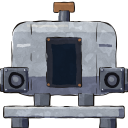
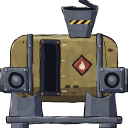
feat(fuel): the picked fuel tank and biofuel's rust orange
The fuel tank is «Бочка на ложементе», a mustard barrel lying on two
saddles with a striped hopper on top and a window on its side; biofuel is
rust orange in every glass and on its pipe sockets. Both the user's picks.

diff --git a/tools/anime-art/subjects/machines.js b/tools/anime-art/subjects/machines.js
@@ -467,11 +467,13 @@ const tankEmpty = (a) => a.flat(band(21.2, 9, 23, 10.2), '#ff5040');
  * across, 11..21 down. The client shows as much of it from the bottom as the machine holds, its surface (levelTop) moved down
  * onto it: any level, not steps.
  */
-const level = (c) => (a) => { a.flat(band(13, 11, 19, 21), c.base); a.flat(band(13.6, 11, 14.5, 21), c.glint); };
-const levelTop = (c) => (a) => a.flat(band(13, 11, 19, 11.6), c.lite);
+/** The sight glass of a tank and a cistern, [x, y, w, h]: the fuel tank's is its own (FUEL_GLASS). */
+const SIGHT = [13, 11, 6, 10];
+const level = (c, [x, y, w, h] = SIGHT) => (a) => { a.flat(band(x, y, x + w, y + h), c.base); a.flat(band(x + w * .1, y, x + w * .25, y + h), c.glint); };
+const levelTop = (c, [x, y, w] = SIGHT) => (a) => a.flat(band(x, y, x + w, y + .6), c.lite);
 const OXYGEN = { base: '#2ca4d8', lite: '#a8ecff', glint: '#6cc8f0' };
-/** Biofuel's amber, a placeholder till its look is picked (fuel-liquid). */
-const FUELLED = { base: '#b8801e', lite: '#f2c66a', glint: '#d8a040' };
+/** Biofuel: «Ржавый оранжевый», the user's pick (fuel-liquid), red-orange as dyed diesel, apart from water, oxygen and fire. */
+const FUELLED = { base: '#b0501c', lite: '#f0965c', glint: '#d46a30' };
 // ---------- the radar antenna, 4 x 6 cells (radar-mast): a guyed lattice mast, a dish four cells across at its head, a red light on top ----------
 const WIRE = { base: '#8a92a2', shade: '#8a92a2' };
 const CONCRETE = { base: '#7a7a80', shade: '#55555e', deep: '#3e3e46', lite: '#9c9ca2', spec: '#c8c8cc', rim: '#9c9ca2' };
@@ -1021,6 +1023,57 @@ const galleyA_screen = (f) => (a) => {
 };
 
 
+// ---------- The fuel tank (fuel-liquid), «Бочка на ложементе», B of the fuel pick page: a squat barrel lying on two saddles and a
+// skid, faded mustard, hooped and riveted, a striped hopper on top with its flap stood open where cans are poured, a flammable placard,
+// its fuel up a narrow window on its side (fuelTank_level over FUEL_GLASS). Ports in at (0, 2), out at (3, 2).
+const MUSTARD = { base: '#9a8446', shade: '#6a5a34', deep: '#4a3e28', lite: '#bba864', spec: '#e0d092' };
+const FUEL_GLASS = [11, 11, 3, 12];
+/** Rust grown from a seam or rivet: a torn edge, darker at heart. */
+const rustPatch = (a, x, y, s) => {
+  a.flat(poly(x - s, y - .2 * s, x - .3 * s, y - .7 * s, x + .5 * s, y - .5 * s, x + s, y + .1 * s, x + .4 * s, y + .4 * s, x + .1 * s, y + .75 * s, x - .5 * s, y + .45 * s), '#70482f');
+  a.flat(poly(x - .4 * s, y - .1 * s, x + .1 * s, y - .3 * s, x + .45 * s, y + .05 * s, x, y + .3 * s), '#3f2a24');
+};
+/** A flammable placard: a dark-edged red diamond, a pale flame on it, its middle at (x, y). */
+const placard = (a, x, y, r) => {
+  const dia = (q) => poly(x, y - q, x + q, y, x, y + q, x - q, y), n = (v) => +v.toFixed(3), s = r * .5;
+  a.flat(dia(r), '#1a1820');
+  a.flat(dia(r * .8), '#a8402e');
+  a.flat(poly(x - r * .8, y, x, y - r * .8, x + r * .1, y - r * .7, x - r * .7, y + r * .1), '#c45a42');
+  a.flat(`M${n(x)} ${n(y + s * .8)}Q${n(x - s * .8)} ${n(y + s * .6)} ${n(x - s * .35)} ${n(y - s * .2)}Q${n(x - s * .1)} ${n(y + s * .15)} ${n(x)} ${n(y - s * .9)}Q${n(x + s * .7)} ${n(y)} ${n(x + s * .45)} ${n(y + s * .55)}Q${n(x + s * .3)} ${n(y + s * .8)} ${n(x)} ${n(y + s * .8)}Z`, '#e6d8b8');
+};
+/** Level marks beside a glass: short pale ticks from y0 to y1, n of them, the ends longer. */
+const glassTicks = (a, x, y0, y1, n) => { for (let i = 0; i < n; i++) { const y = y0 + (y1 - y0) * i / (n - 1), l = i === 0 || i === n - 1 ? 1.3 : .8; a.flat(band(x, y - .16, x + l, y + .16), '#cfc3a0'); } };
+const fuelTank = (a) => {
+  a.shape(rr(2.6, 8.8, 26.8, 16.6, 5), MUSTARD, {
+    lite: band(2.6, 8.8, 29.4, 10.3), spec: band(7, 9.3, 17, 9.8), shade: band(2.6, 21.8, 29.4, 25.4), deep: band(2.6, 24, 29.4, 25.4),
+    lines: ['M6.2 9.4Q4.6 17.1 6.2 24.8', 'M25.8 9.4Q27.4 17.1 25.8 24.8'] });
+  for (const x of [6.8, 24.2]) {
+    a.shape(rr(x, 8.5, 1.4, 17.2, .5), GUN, { lite: band(x, 8.5, x + .5, 25.7), shade: band(x + .9, 8.5, x + 1.4, 25.7) });
+    rivets(a, [x + .7, 11.6], [x + .7, 22.6]);
+  }
+  rustStreak(a, 7.3, 23.2, 2.2);
+  rustPatch(a, 18.4, 23.4, 1);
+  rustPatch(a, 27.6, 12.4, .8);
+  for (const x of [16.2, 18.2]) a.flat(rr(x, 21.2, 1.4, .7, .2), '#3e3420');
+  placard(a, 20.4, 16.2, 2.7);
+  // The hopper on top, its slot dark, a hazard strip on its front, the flap stood open behind it.
+  a.shape(poly(19.6, .3, 20.6, -.4, 24.4, 1.6, 23.4, 2.2), DARK, { outer: false, lite: band(19.6, -.4, 24.4, .2) });
+  a.shape(poly(15.4, 1.8, 24.6, 1.8, 22.4, 9.4, 17.6, 9.4), GUN, { lite: band(15.4, 1.8, 24.6, 2.5), shade: poly(23, 1.8, 24.6, 1.8, 22.4, 9.4, 21.4, 9.4) });
+  a.flat(ell(20, 2.1, 4.2, .42), '#12131e');
+  hazard(a, 17.4, 5, 5.2, 1.1);
+  // The sight glass in its frame, bolted, its marks beside it; its fuel is drawn over it (fuelTank_level), as the sim says.
+  a.shape(rr(10, 10, 5, 14, .5), DARK, { outer: false, lite: band(10.2, 10.1, 14.8, 10.6), shade: band(14.2, 10, 15, 24) });
+  a.flat(band(11, 11, 14, 23), '#10141c');
+  for (const [x, y] of [[10.5, 10.5], [14.5, 10.5], [10.5, 23.5], [14.5, 23.5]]) a.flat(ell(x, y, .3), COPPER.base);
+  glassTicks(a, 15.3, 11.2, 22.8, 4);
+  // The cradle: two saddles under the barrel on a skid.
+  for (const x0 of [3, 21.6]) a.shape(`M${x0} 22.6Q${x0 + 3.5} 26.4 ${x0 + 7} 22.6L${x0 + 7.6} 29.4L${x0 - .6} 29.4Z`, GUN, { lite: band(x0 - .6, 22, x0 + 1.2, 29.4), shade: band(x0 + 5.6, 22, x0 + 7.6, 29.4) });
+  box(a, 1.6, 29.2, 28.8, 1.6, GUN, { l: .4, b: .4 });
+  feet(a, 30.8, 1.2, [3, 4], [25, 4]);
+  fitting(a, 4, 20, 0);
+  fitting(a, 28, 20, 32);
+};
+
 Subjects.machines = function () {
   // A fire's liquid-oxygen input, its port at 0, 2 (industrial-oxygen).
   const blowable = (draw) => (a) => { draw(a); fitting(a, 4, 20, 0); };
@@ -1031,7 +1084,7 @@ Subjects.machines = function () {
     vent: [16, 16, vent], crate: [32, 16, crate], cistern: [32, 32, cistern], growCapsule: [32, 48, growCapsule], charger: [16, 32, charger], burnerGenerator: [32, 32, blowable(burnerGenerator)],
     autoTradeStation: [32, 32, terminal(true)], tradeStation: [32, 32, terminal(false)], lifepod: [48, 48, lifepod], generator: [32, 32, generator], tank: [32, 32, tank],
     computer: [48, 32, computer], capacitorBank: [32, 32, capacitorBank], engine: [72, 32, fuelled(engine, 68, 20, 72)], solarPanel: [48, 16, solarPanel], lamp: [16, 16, lamp], arcLamp: [16, 16, arcLampBody(false)], dropPod: [32, 56, fuelled(dropPod, 4, 36, 0)], electrolyser: [32, 48, electrolyser],
-    fermenter: [32, 32, fuelled(fermenter, 28, 20, 32)], galley: [32, 40, blowable(galleyA)], biofuelGenerator: [48, 32, fuelled(blowable(biofuelGenerator), 4, 12, 0)], treadWheel: [48, 48, treadWheel] };
+    fuelTank: [32, 32, fuelTank], fermenter: [32, 32, fuelled(fermenter, 28, 20, 32)], galley: [32, 40, blowable(galleyA)], biofuelGenerator: [48, 32, fuelled(blowable(biofuelGenerator), 4, 12, 0)], treadWheel: [48, 48, treadWheel] };
   for (const [kind, [w, h, draw]] of Object.entries(whole)) out(`machine_${kind}`, bake({ w, h, draw }));
   out('machine_arcLamp_lit', flat(16, 16, arcLampBody(true)));
   out('machine_radarAntenna', flat(32, 48, (a) => { radarMast(a); radarDish(2)(a); }));
@@ -1052,9 +1105,9 @@ Subjects.machines = function () {
   for (let f = 0; f < 2; f++) out(`computer_lights_${f}`, flat(48, 32, computerLights(f)));
   for (let f = 0; f < 3; f++) out(`fire_${f}`, flat(10, 11, fire(f)));
   out('tank_empty', flat(32, 32, tankEmpty));
-  for (const [kind, c] of [['tank', OXYGEN], ['cistern', WATERED], ['fuelTank', FUELLED]]) {
-    out(`${kind}_level`, flat(32, 32, level(c)));
-    out(`${kind}_level_top`, flat(32, 32, levelTop(c)));
+  for (const [kind, c, glass] of [['tank', OXYGEN, SIGHT], ['cistern', WATERED, SIGHT], ['fuelTank', FUELLED, FUEL_GLASS]]) {
+    out(`${kind}_level`, flat(32, 32, level(c, glass)));
+    out(`${kind}_level_top`, flat(32, 32, levelTop(c, glass)));
   }
   for (let f = 0; f < 4; f++) out(`electrolyser_work_${f}`, flat(32, 48, bubbles(f)));
   out('electrolyser_working', flat(32, 48, working));

diff --git a/tools/anime-art/subjects/shuttle.js b/tools/anime-art/subjects/shuttle.js
@@ -15,8 +15,8 @@ const FROST = { base: '#76868f', shade: '#56646e', deep: '#3c4852', lite: '#a2b2
 const RUST = ['#70482f', '#3f2a24'];
 const OFF = { green: '#2a4a36', red: '#5a2a28', white: '#5e5c52' };
 const PIPE = { base: '#7f8796', shade: '#555b70', deep: '#3a3e50', lite: '#a9b1be', spec: '#dfe7f2' };
-/** Biofuel's amber, a placeholder till its look is picked (fuel-liquid), as the fuel tank's. */
-const FUEL = { base: '#b8801e', lite: '#f2c66a', glint: '#d8a040' };
+/** Biofuel: «Ржавый оранжевый», the user's pick (fuel-liquid), as the fuel tank's. */
+const FUEL = { base: '#b0501c', lite: '#f0965c', glint: '#d46a30' };
 
 const band = (x0, y0, x1, y1) => poly(x0, y0, x1, y0, x1, y1, x0, y1);
 function box(a, x, y, w, h, m, o) {

diff --git a/game/features/pipes/logic/Sockets.cs b/game/features/pipes/logic/Sockets.cs
@@ -6,14 +6,14 @@ namespace Stillwake.Game.Features.Pipes;
 /// <summary>A port as the piping shows it (2026-10-29-typed-ports): a socket in its fluid's colour, an arrow into it (&gt; o) or out of it (o &gt;).</summary>
 public static class Sockets
 {
-    /// <summary>The colour of a fluid's sockets, as 0xRRGGBB: air the canister's blue, water the cistern's teal, liquid oxygen pale blue, fuel amber.</summary>
+    /// <summary>The colour of a fluid's sockets, as 0xRRGGBB: air the canister's blue, water the cistern's teal, liquid oxygen pale blue, fuel rust orange.</summary>
     public static uint ColourOf(string fluid) => fluid switch
     {
         Fluids.Air => 0x7fc4f0,
         Fluids.Water => 0x2fa3b8,
         Fluids.LiquidOxygen => 0xa8d8ff,
-        // Amber, a placeholder till the user picks it (fuel-liquid).
-        Fluids.Fuel => 0xd9a03a,
+        // Rust orange, the user's pick (fuel-liquid): the glint of the fuel in the glasses.
+        Fluids.Fuel => 0xd46a30,
         _ => throw new ArgumentException($"no socket colour for fluid {fluid}"),
     };
 

diff --git a/docs/plans/fuel-liquid.md b/docs/plans/fuel-liquid.md
@@ -21,6 +21,11 @@ in. Built in the two stages of CLAUDE.md's Workflow: **Try** (built, played by t
   a machine holding over a litre of liquid is not taken apart (`building.holdsLiquid`, `Builds.TakenApartHolding`).
 - **The crew shuttle** holds 200 l: a hopper, a fuel input at its stern (0, 8), its panel the stores' (E opens it), its fuel
   up the sight glass its picture already had. It still does not fly or seat anyone.
+- **Picked (2026-11-16)** on the pick page (https://claude.ai/artifact/3RXrpHnVpZTCJxrKDH7bW1, its `picks` docs): the fuel tank
+  is B «Бочка на ложементе» (a mustard barrel lying on two saddles, a striped hopper on top, a narrow window on its side,
+  glass [11, 11, 3, 12]); biofuel is 4 «Ржавый оранжевый» (#b0501c / #f0965c / #d46a30, the last its pipe sockets'). Turned
+  down: A «Клёпаная бочка», C «Клетка с канистрой», D «Напорный бак с поплавком»; amber, olive oil, dark honey. Both go
+  into the ADR at ship.
 - **A demo**, `--fuel`: a fermenter piped to a 60 l tank piped to a pod; a generator to pipe by hand. The testbed has a fuel
   tank on the arc bench.
 
